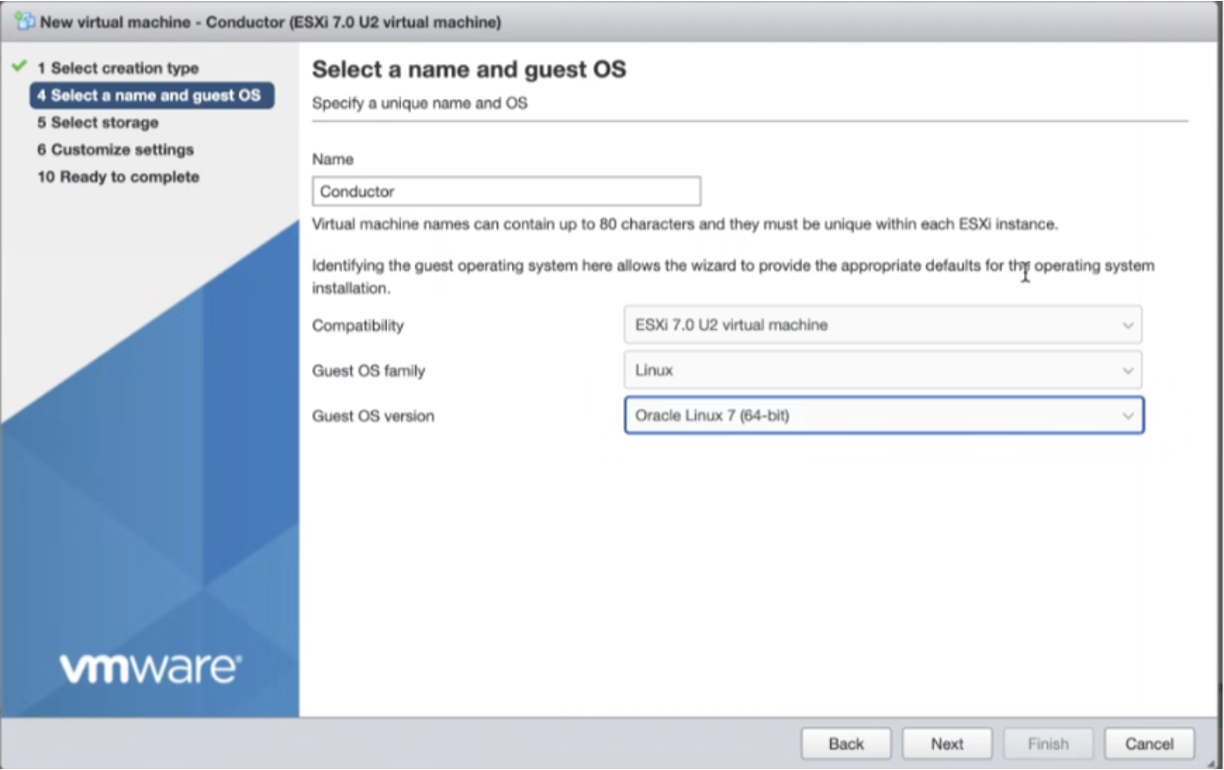
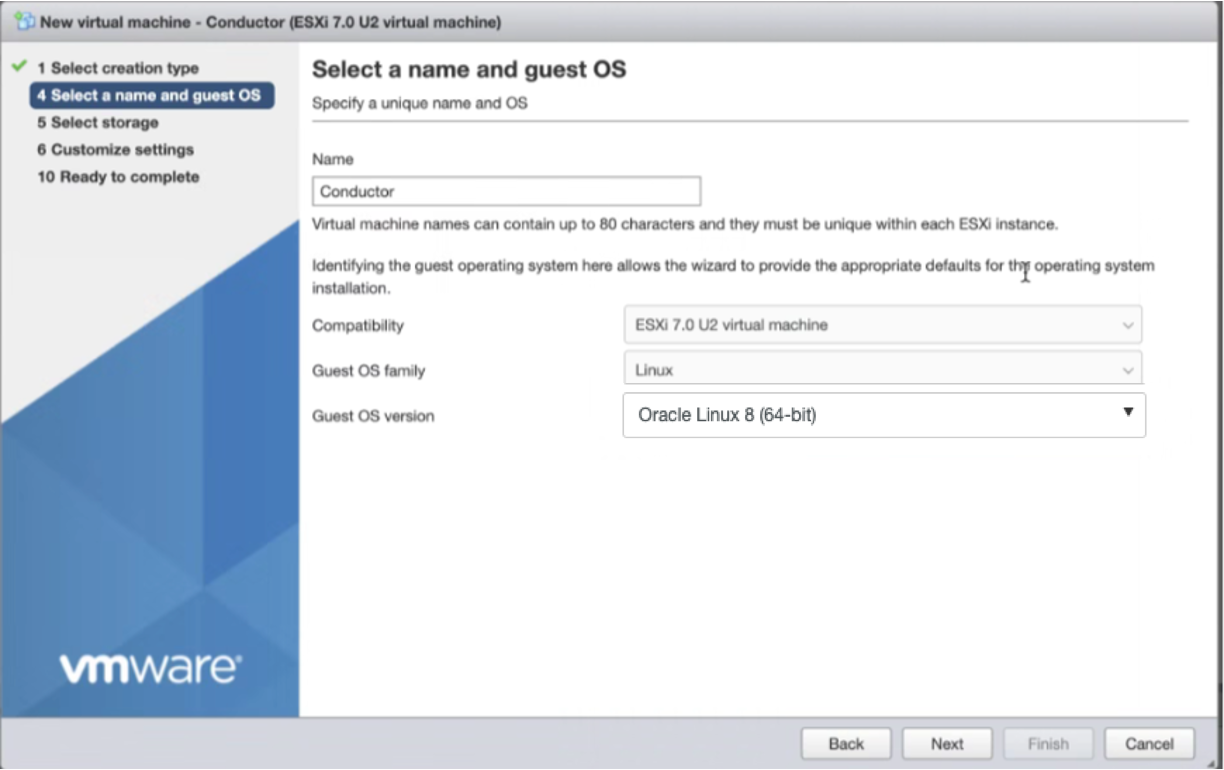
updates per reviews from Mike and Lane

Changed region(s): [[0.4967, 0.4987, 0.9624, 0.5922]]

diff --git a/docs/_vmware_vm_create.md b/docs/_vmware_vm_create.md
@@ -25,11 +25,11 @@ Use the steps below to configure the following:
    | Name | A descriptive name. In this example, `Conductor` |
    | Compatibility | `ESXi 7.0 U2 virtual machine` |
    | Guest OS family | `Linux` |
-   | Guest OS version | `CentOS 7 (64-bit)` |
+   | Guest OS version | `Oracle Linux 9 (64-bit)` or highest available Oracle Linux (64-bit) version |
 
 3. Name the Virtual Machine **Conductor**.  
 
-4. Select **Linux** from the Guest OS family dropdown selection, and select the Guest OS version as **Centos 7**. Click **Next**.
+4. Select **Linux** from the Guest OS family dropdown selection, and select the Guest OS version as **Oracle Linux 9 (64-bit)** or the highest available Oracle Linux (64-bit) version . Click **Next**.
 
    ![Name VM](/img/dep3-vm-name-os.png)
 
@@ -60,10 +60,6 @@ Use the steps below to configure the following:
 
 By default, one network adapter is created. For a standalone conductor, one adapter is sufficient. Click the adapter to expand it and set the **Adapter Type** to **VMXNET3**. Set the **Network** to the management network portgroup connected to your conductor management subnet.
 
-   :::note
-   If you plan to connect additional networks (for example, a dedicated conductor-to-router WAN), click **Add network adapter** to add additional VMXNet3 adapters now. For most deployments, one adapter is sufficient.
-   :::
-
    ![Network Adapter Type](/img/dep6-vm-nics.png)
 
 ### CD/DVD Media - Software Selection
@@ -76,30 +72,11 @@ By default, one network adapter is created. For a standalone conductor, one adap
 
    ![CD ISO Selected](/img/dep7-vm-selectversion.png)
 
+   ![Settings complete](/img/dep8-vm-all-settings.png)
+
 10. Confirm the settings, and then click **Next**.
 
-   ![Confirm Settings](/img/dep8-vm-confirm.png)
-
-<!---### VM Options (Boot Settings)
-
-9. Click the **VM Options** tab.
-
-   ![VM Options](/img/vmware_vmoptions1.png)
-
-10. Expand **Boot Options** and configure:
-
-    | Setting | Value |
-    |---------|-------|
-    | Firmware | `EFI` |
-    | Enable UEFI secure boot | **Disabled** (no check mark) |
-
-    :::important
-    Secure Boot **must be disabled**. The SSR kernel modules are not signed, and Secure Boot will prevent the NIC drivers from loading, causing installation to fail.
-    :::
-
-    ![Boot Options](/img/vmware_vmoptions2.png) --->
-
-11. Review the summary, then click **Finish**.
+11. Review the summary, scroll to the bottom of the window and click **Finish**.
 
    ![VM Complete](/img/dep9-vm-summary.png)
 

diff --git a/docs/_deploy_vmware_conductor_network_design.md b/docs/_deploy_vmware_conductor_network_design.md
@@ -5,7 +5,7 @@ The following IP addressing and naming scheme is used consistently throughout th
 | Parameter | Example Value | Description |
 |-----------|--------------|-------------|
 | Authority Name | `Authority128` | Organizational authority name |
-| Conductor Name | `conductor` | Conductor system name |
+| Conductor Name | `Conductor` | Conductor system name |
 | Conductor Node Name | `node0` | Conductor node name |
 | Conductor Management IP | `192.168.100.10` | Static IP on the VMware management network |
 | Conductor Subnet Mask | `/24` | Management network prefix |